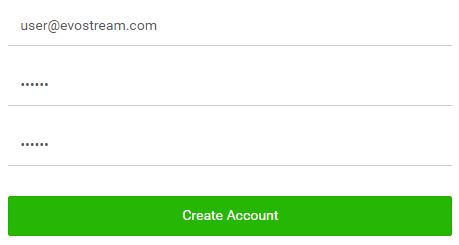
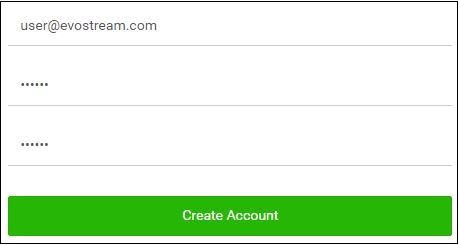
updates login and image boarder

diff --git a/pages/userguide/userguide_login.md b/pages/userguide/userguide_login.md
@@ -58,13 +58,10 @@ If you already have your local account registered you will be redirected to logi
 
 6. You are now logged in using Facebook account!
 
-   **Note:**
 
-- You can unlink your Facebook account in Profile Page
 
-- Unlinking account in the UI will not remove the EMS Web UI entry in the user's Facebook account. Go to Facebook's *Settings > Apps* page to modify
 
-  
+
 
 ## Login Using Google+
 
@@ -72,8 +69,27 @@ If you already have your local account registered you will be redirected to logi
 
 ![](images/userguide/login_g+.jpg)
 
+
+
 2. Sign in the Google account to be used
-3. 
+
+   ![](images/userguide/g+_signin.JPG)
+
+   
+
+3. Google+ will prompt for application permission, click **Allow**
+
+   ![](images/userguide/G+_allow.JPG)
+
+   
+
+4. You are now logged in using Google+!
 
 
+------
+
+##Notes
+
+- You can unlink your Facebook or Google+ account in Profile Page
+- Unlinking account in the UI will not remove the EMS Web UI entry in the user's Facebook account. Go to Facebook's *Settings > Apps* page to modify
 

diff --git a/pages/userguide/userguide_add.md b/pages/userguide/userguide_add.md
@@ -22,11 +22,9 @@ This is similar to the `pullStream` command. If you wan't to add a RTSP or RTMP 
 
 4. Click **Add Stream**
 
-   <p align="center">
+   ![](images/userguide/addstream.JPG)
 
-    ![](images/userguide/addstream.JPG) 
-
-   </p>
+   
 
 **Notes:**
 
